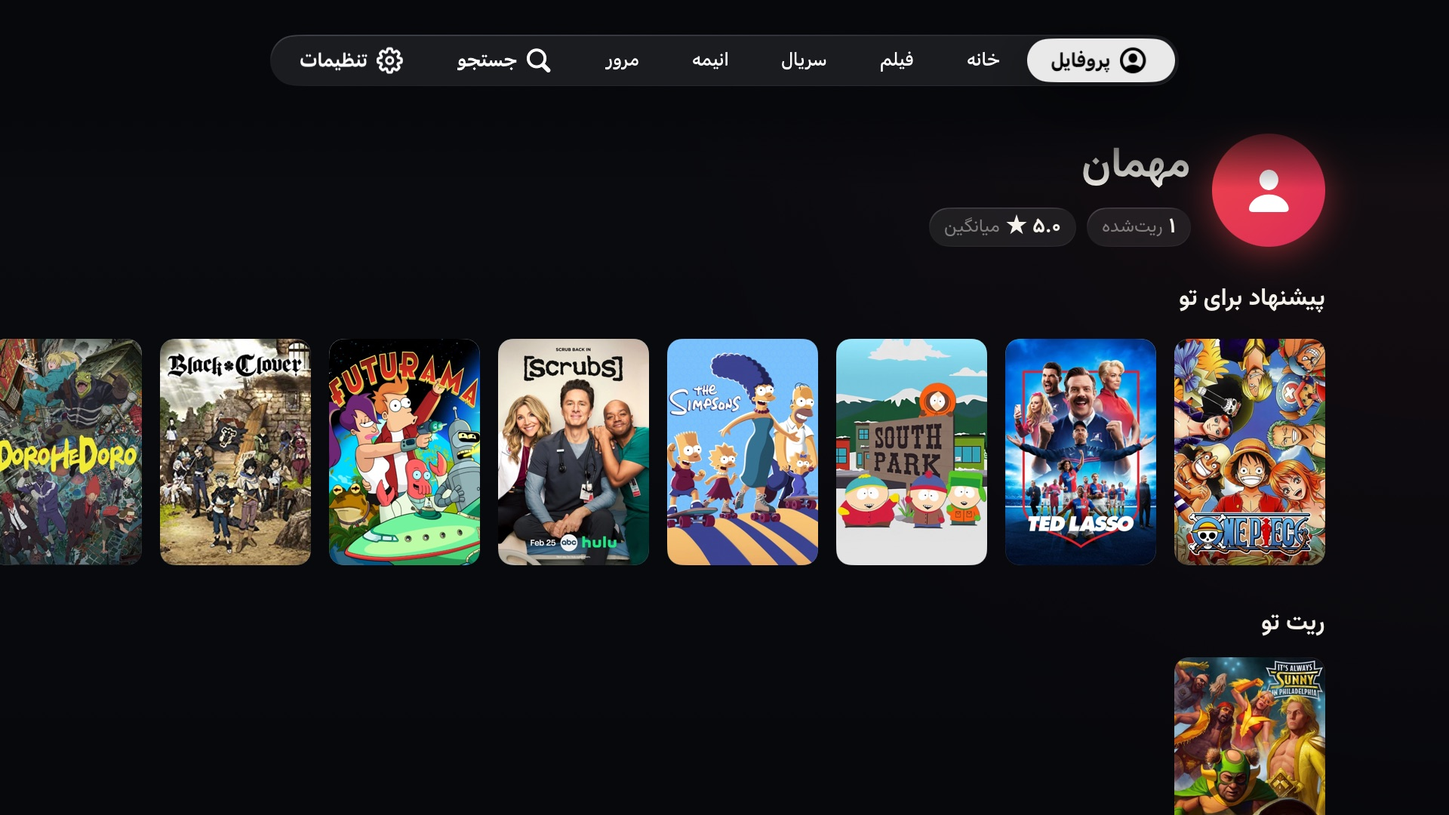
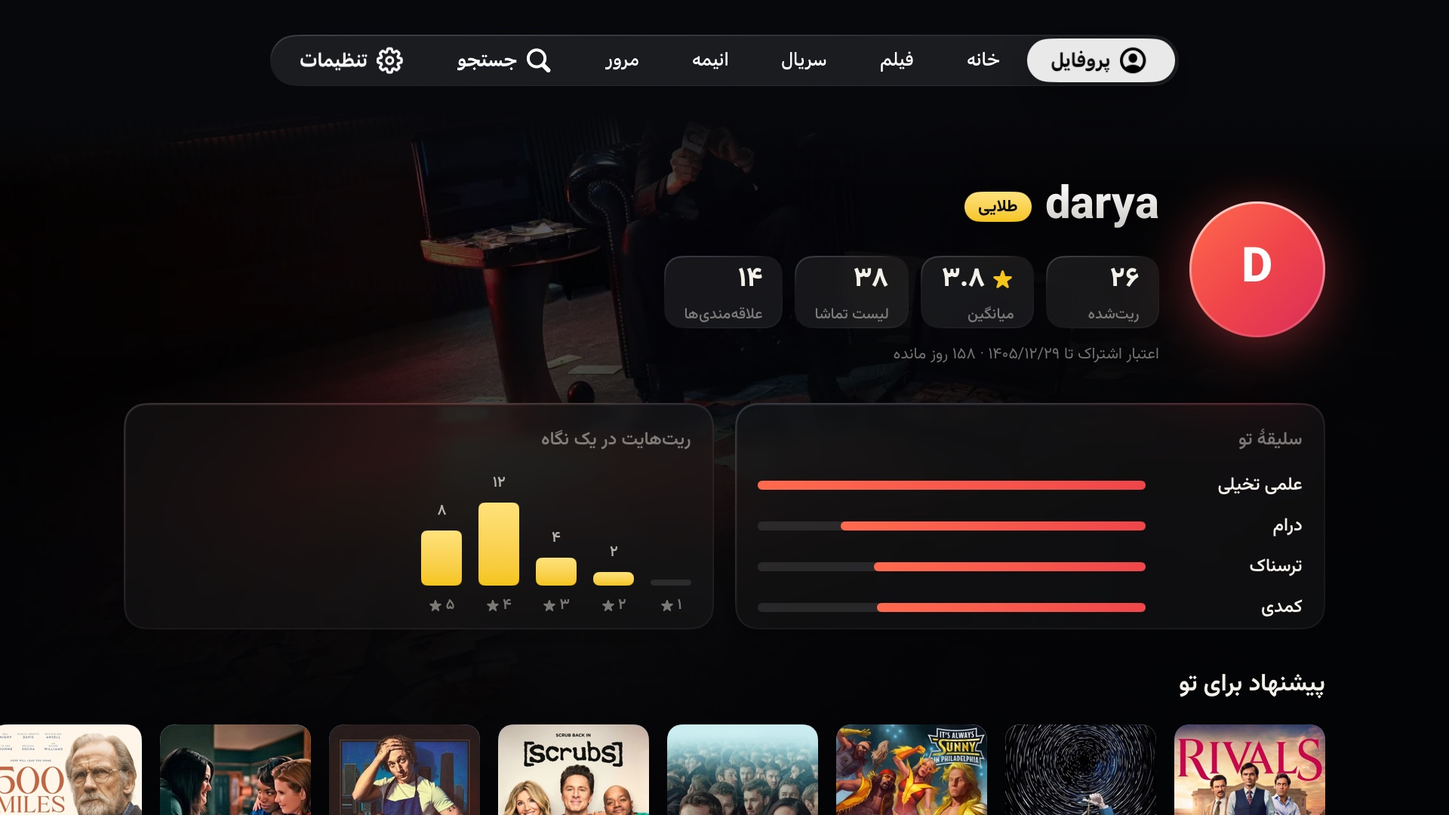
Rewrite the README and retake the screenshots
The text now follows the app as it is: three languages, the new profile,
iCloud ratings, continue watching and the skip prompt. It also tells what
the project set out to do and where 30nama's API stopped it. Screenshots
that show an account use a sample name and sample data.

diff --git a/README.md b/README.md
@@ -1,66 +1,172 @@
+<div align="center">
+
+<img src="docs/banner.jpg" alt="لوگوی ۳۰نما" width="100%">
+
+<h1 dir="rtl">۳۰نما برای Apple TV</h1>
+
+<p dir="rtl">برنامهٔ غیررسمی ۳۰نما برای Apple TV. بومی است، با SwiftUI نوشته شده و هنوز در حال ساخت است.</p>
+
+<p>
+<img src="https://img.shields.io/badge/tvOS-17%2B-000000?logo=apple&logoColor=white" alt="tvOS 17 به بالا">
+<img src="https://img.shields.io/badge/SwiftUI-native-F05138?logo=swift&logoColor=white" alt="SwiftUI">
+<img src="https://img.shields.io/badge/license-MIT-2ea44f" alt="مجوز MIT">
+<img src="https://img.shields.io/badge/status-in%20progress-e5484d" alt="در حال توسعه">
+<img src="https://img.shields.io/badge/unofficial-not%20affiliated-6e7681" alt="غیررسمی">
+</p>
+
+<p dir="rtl">
+<a href="#features">امکانات</a> ·
+<a href="#story">داستان پروژه</a> ·
+<a href="#run">اجرا</a> ·
+<a href="#contribute">همکاری</a>
+</p>
+
+<img src="docs/screenshots/home.jpg" alt="صفحهٔ خانه" width="100%">
+
+</div>
+
 <div dir="rtl">
 
-# ۳۰نما برای Apple TV
+## این پروژه چیست
 
-برنامهای بومی برای tvOS که کاتالوگ [30nama.com](https://30nama.com) را روی Apple TV میآورد. با SwiftUI نوشته شده است.
+تا جایی که میدانیم ۳۰نما برای Apple TV برنامهای ندارد. این پروژه برای پر کردن همان جای خالی است: برنامهای بومی برای tvOS که با حساب خودتان در [30nama.com](https://30nama.com) کار میکند و فیلم و سریال را با کنترل Apple TV جلوی دستتان میگذارد.
 
-این برنامه بر پایهٔ کلاینت تایزن [msharifi99/30nama-tizenos](https://github.com/msharifi99/30nama-tizenos) ساخته شده است. جزئیات در بخش [اعتبار](#اعتبار).
+نقطهٔ شروع ما کلاینت تایزن [msharifi99/30nama-tizenos](https://github.com/msharifi99/30nama-tizenos) بود، نوشتهٔ Rebin Sharifi. از روی آن فهمیدیم API تلویزیون ۳۰نما چطور کار میکند. خود برنامه از صفر و با SwiftUI نوشته شده است.
 
-> **این برنامه رسمی نیست.** ساختهٔ ۳۰نما نیست، وابستگی یا ارتباطی با ۳۰نما ندارد و ۳۰نما آن را تأیید نکرده است. برای پخش باید اشتراک خودتان را در ۳۰نما داشته باشید. بدون ورود فقط میشود فهرستها را دید.
+> [!IMPORTANT]
+> **این برنامه رسمی نیست.** ۳۰نما آن را نساخته و تأیید نکرده است و ما هم ارتباطی با ۳۰نما نداریم. برای پخش باید اشتراک خودتان را داشته باشید. بدون ورود میشود فهرستها را گشت، جستجو کرد و به فیلمها ستاره داد.
 
-> **پروژه در حال توسعه است** و مرتب بهروز میشود، پس ممکن است بعضی بخشها ناقص باشند یا تغییر کنند. اگر میخواهید همکاری کنید، بخش [همکاری](#همکاری) را ببینید.
+> [!NOTE]
+> **کار هنوز تمام نشده است.** برنامه مرتب عوض میشود و تا امروز فقط روی شبیهساز دیده شده، نه روی Apple TV واقعی. اگر دستگاهش را دارید یا حوصلهٔ کد زدن، بخش [همکاری](#contribute) را ببینید.
 
-## تصویرها
+<a id="features"></a>
 
-| خانه | ردیفها |
-|---|---|
-| ![خانه](docs/screenshots/home.jpg) | ![ردیفهای خانه](docs/screenshots/rows.jpg) |
+## چه چیزهایی دارد
 
-| جزئیات | فیلمها |
-|---|---|
-| ![صفحهٔ جزئیات](docs/screenshots/details.jpg) | ![فهرست فیلمها](docs/screenshots/movies.jpg) |
+### خانه و گشتن میان عنوانها
 
-| مرور ژانرها | جستجو |
-|---|---|
-| ![مرور ژانرها](docs/screenshots/browse.jpg) | ![جستجو](docs/screenshots/search.jpg) |
+بالای خانه چرخفلکی از عنوانهای ویژه است و زیرش ردیفها. فوکوس روی هر پوستری که برود، بیلبورد بالای صفحه همان عنوان را نشان میدهد و پسزمینه هم آرام به تصویر آن محو میشود.
 
-| پروفایل | تنظیمات |
-|---|---|
-| ![پروفایل](docs/screenshots/profile.jpg) | ![تنظیمات](docs/screenshots/settings.jpg) |
+<p align="center">
+<img src="docs/screenshots/rows.jpg" alt="ردیفهای خانه" width="49%">
+<img src="docs/screenshots/details.jpg" alt="صفحهٔ یک عنوان" width="49%">
+</p>
 
-| پخشکننده | قسمتها هنگام پخش |
-|---|---|
-| ![پخشکننده با زیرنویس و دکمهٔ رد کردن تیتراژ](docs/screenshots/player.jpg) | ![فهرست قسمتها هنگام پخش](docs/screenshots/episodes.jpg) |
+صفحهٔ هر عنوان فصلها و قسمتها و بازیگرانش را دارد. فیلم، سریال و انیمه هر کدام فهرست خودشان را دارند که میشود مرتبشان کرد. ژانرها را هم میشود مرور کرد، و اگر دنبال عنوان مشخصی هستید جستجو هست.
 
-دو تصویر آخر در حالت دمو و با ویدیوی آزمایشی اپل گرفته شدهاند.
+<p align="center">
+<img src="docs/screenshots/movies.jpg" alt="فهرست فیلمها" width="32%">
+<img src="docs/screenshots/browse.jpg" alt="مرور ژانرها" width="32%">
+<img src="docs/screenshots/search.jpg" alt="جستجو" width="32%">
+</p>
 
-## امکانات
+### پخش
 
-- ورود با کد QR، یا مرور بهعنوان مهمان
-- خانه با چرخفلک عنوانهای ویژه، بیلبوردی که با حرکت فوکوس عوض میشود و پسزمینهای که به تصویر همان عنوان محو میشود
-- صفحهٔ جزئیات با فصلها و قسمتها، بازیگران و ادامهٔ تماشا
-- فهرست فیلم، سریال و انیمه با مرتبسازی، مرور ژانرها و جستجو
-- پخشکنندهٔ خود سیستم با زیرنویس فارسی و انگلیسی به قلم وزیرمتن (اندازه، رنگ و پسزمینهٔ زیرنویس قابل تنظیم است)، دکمههای رد کردن تیتراژ و قسمت بعد، انتخاب کیفیت
-- ستاره دادن به عنوانها و صفحهٔ پروفایل: سلیقهٔ شما از روی ستارههایتان، پیشنهادهایی بر همان اساس، و «لیست تماشا» و «علاقهمندیها»ی حسابتان در ۳۰نما. ستارهها در iCloud خود کاربر هم نگه داشته میشوند تا بین چند Apple TV یکی بمانند (این بخش با iCloud واقعی آزموده شده، ولی هنوز روی Apple TV واقعی نه).
-- رابط انگلیسی، عربی و فارسی (عربی و فارسی راستبهچپ). زبان پیشفرض انگلیسی است و از تنظیمات عوض میشود. عنوان و خلاصهٔ فیلمها را ۳۰نما فقط به فارسی و انگلیسی دارد، پس در رابط عربی اینها انگلیسی نمایش داده میشوند.
+پخشکننده همان پخشکنندهٔ خود tvOS است، پس کنترل همانطور رفتار میکند که در بقیهٔ برنامههای Apple TV به آن عادت دارید. زیرنویس فارسی و انگلیسی با قلم وزیرمتن میآید و اندازه، رنگ و پسزمینهاش از تنظیمات عوض میشود. کیفیت را از منوی خود پخشکننده انتخاب میکنید.
+
+سر تیتراژ، خلاصهٔ قسمت قبل و پایان هر قسمت، دکمهٔ قرمزی روی تصویر میآید: «رد کردن تیتراژ»، «رد کردن خلاصه» یا «قسمت بعد». با OK کار میکند و وقتی نوار پخش باز است کنار میرود.
+
+<p align="center">
+<img src="docs/screenshots/player.jpg" alt="پخشکننده با زیرنویس و دکمهٔ رد کردن تیتراژ" width="49%">
+<img src="docs/screenshots/episodes.jpg" alt="فهرست قسمتها هنگام پخش" width="49%">
+</p>
+
+جایی که فیلم را رها کردهاید در حساب ۳۰نمایتان ثبت میشود. ردیف «ادامه تماشا» در خانه نشان میدهد از هر عنوان چقدر مانده است، و پخش از همانجا ادامه پیدا میکند.
+
+<p align="center">
+<img src="docs/screenshots/continue.jpg" alt="ردیف ادامه تماشا با نوار پیشرفت" width="80%">
+</p>
+
+### ستارهها و پروفایل
+
+به هر عنوان میشود از نیم تا پنج ستاره داد. پروفایل از روی همین ستارهها میگوید کدام ژانرها بیشتر به دلتان نشستهاند و چقدر دستودلباز ستاره میدهید. از میان عنوانهای صفحهٔ خانه هم آنهایی را پیشنهاد میدهد که به سلیقهتان نزدیکترند. برای هیچکدام از اینها ورود لازم نیست؛ مهمان هم ستاره میدهد و پیشنهاد میگیرد.
+
+<p align="center">
+<img src="docs/screenshots/profile.jpg" alt="پروفایل با سلیقه و نمودار ستارهها" width="49%">
+<img src="docs/screenshots/ratings.jpg" alt="عنوانهایی که ستاره گرفتهاند" width="49%">
+</p>
+
+اگر وارد شده باشید، «لیست تماشا» و «علاقهمندیها»ی حسابتان هم همانجا میآید و تاریخ پایان اشتراک با خطی ریز زیر نامتان نوشته میشود.
+
+ستارهها روی خود دستگاه میمانند و یک نسخه هم به iCloud خودتان میرود. اینطوری اگر دو Apple TV دارید یا برنامه را پاک و دوباره نصب کردید، چیزی گم نمیشود. هیچچیز به سرور ما نمیرود، چون سروری در کار نیست.
+
+### سه زبان
+
+رابط به انگلیسی، عربی و فارسی است و در عربی و فارسی راستبهچپ چیده میشود. نصب تازه با انگلیسی بالا میآید و زبان از تنظیمات عوض میشود.
+
+<p align="center">
+<img src="docs/screenshots/english.jpg" alt="خانه به انگلیسی" width="49%">
+<img src="docs/screenshots/arabic.jpg" alt="خانه به عربی" width="49%">
+</p>
+
+۳۰نما عنوان و خلاصهٔ فیلمها را فقط به فارسی و انگلیسی دارد، برای همین در رابط عربی این دو انگلیسی میمانند. ترجمهٔ عربی را هم هنوز هیچ عربزبانی ندیده است.
+
+### ورود و تنظیمات
+
+ورود با کد QR است: کد را با گوشی اسکن میکنید و در سایت ۳۰نما تأیید میکنید، بدون اینکه مجبور شوید رمز را با کنترل تلویزیون تایپ کنید. اگر هم نخواستید وارد شوید، بهعنوان مهمان ادامه میدهید.
+
+<p align="center">
+<img src="docs/screenshots/settings.jpg" alt="تنظیمات" width="60%">
+</p>
+
+<p align="center"><sub>دو تصویر پخشکننده در حالت دمو و با ویدیوی آزمایشی اپل گرفته شدهاند. تصویرهای پروفایل، «ادامه تماشا» و تنظیمات هم با حساب و دادههای نمونه.</sub></p>
+
+<a id="story"></a>
+
+## میخواستیم چه بسازیم و تا کجا رسیدیم
+
+راستش نقشهٔ اول بزرگتر از یک پخشکننده بود. میخواستیم پروفایل جایی باشد برای پیدا کردن آدمهای همسلیقه: بقیهٔ کاربران ۳۰نما را جستجو کنید، دنبالشان کنید و ببینید چه دیدهاند و به کدام فیلم چند ستاره دادهاند. ستارهای هم که در تلویزیون میدهید قرار بود همان امتیازی باشد که در سایت ۳۰نما به اسمتان ثبت است.
+
+API ۳۰نما این اجازه را نداد.
+
+برنامه با API تلویزیون ۳۰نما حرف میزند، همان که کلاینت تایزن هم از آن استفاده میکند. در این API کاتالوگ هست، جستجو، پخش، ادامهٔ تماشا و لیستهای خود کاربر. دستوری برای امتیاز دادن، دیدن پروفایل دیگران یا دنبال کردن کسی در آن نیست. سایت ۳۰نما API جدایی دارد که امتیاز دادن در آن هست، ولی کلید و نشست خودش را میخواهد و نشستی را که برنامه با QR میگیرد نمیپذیرد.
+
+| میخواستیم | چرا نشد | بهجایش چه ساختیم |
+|---|---|---|
+| ستارههای برنامه همان امتیاز سایت باشند | API تلویزیون امتیاز دادن ندارد و API سایت نشست برنامه را قبول نمیکند | ستارهها روی دستگاه و در iCloud خود کاربر میمانند |
+| جستجو و دنبال کردن کاربران دیگر | ۳۰نما اصلاً چنین چیزی ندارد، نه در API تلویزیون و نه در سایت | پروفایل فقط برای خود کاربر است |
+| دیدن فیلمهایی که دیگران دیدهاند یا ستاره دادهاند | پروفایل عمومی هر کاربر در سایت فقط لیستهایش را نشان میدهد، بدون امتیازها و سابقهٔ تماشا. همان هم از برنامه در دسترس نیست | لیست تماشا و علاقهمندیهای خود کاربر از حسابش خوانده میشود |
+| ردیف ترندها از TMDB | کلیدش یا باید داخل برنامه باشد، که بیرون کشیدنش کاری ندارد، یا پشت یک سرور، که نداریم. ساختیم، کار کرد و برش داشتیم | پیشنهادها از روی ستارههای خود کاربر ساخته میشوند |
+
+چیزهایی هم بود که API داشت ولی جایی نگفته بود چطور. نمونهاش ثبت جای پخش: سرور فقط موقعیتی را ثبت میکند که مضرب ۳۰ ثانیه باشد. عدد دیگری بفرستید جواب موفق میدهد و هیچچیز ثبت نمیکند. تا این را پیدا کنیم «ادامه تماشا» خالی میماند.
+
+### الان کجاییم
+
+هر چه بالاتر دیدید کار میکند. ورود، پخش، زیرنویس، انتخاب کیفیت و ثبت جای پخش با یک حساب واقعیِ دارای اشتراک آزموده شدهاند. همگامسازی ستارهها هم با یک حساب iCloud واقعی آزموده شده است، البته از داخل یک برنامهٔ آزمایشی، چون شبیهساز tvOS ورود به iCloud را نمیپذیرد.
+
+چیزی که نداریم خود Apple TV است. تا امروز همهچیز روی شبیهساز دیده شده، و دکمهٔ «قسمت بعد» فقط در حالت دمو.
+
+انتشار عمومی هم هنوز در کار نیست. برنامه غیررسمی است و با نام و لوگوی ۳۰نما کار میکند، پس قدم بعدیاش به خود ۳۰نما بستگی دارد. فعلاً راه نصب، ساختن از روی همین کد است.
+
+اگر از ۳۰نما این را میخوانید: با اضافه شدن امتیاز دادن، پروفایل عمومی و دنبال کردن به API تلویزیون، نیمهٔ دیگر این نقشه هم ساختنی است. کد با مجوز MIT همینجاست و برای رسمی شدنش هر کمکی از دستمان بربیاید میکنیم.
+
+<a id="run"></a>
 
 ## اجرا
 
 Xcode 26 با پلتفرم tvOS لازم است. برنامه روی tvOS 17 به بالا اجرا میشود.
 
+<div dir="ltr">
+
+```
+git clone https://github.com/thesaikodelik/30nama-tvos.git
+```
+
+</div>
+
 ۱. فایل `30nama.xcodeproj` را باز کنید.
 
-۲. یک شبیهساز Apple TV انتخاب کنید و Run را بزنید. برای شبیهساز کار دیگری لازم نیست.
+۲. یک شبیهساز Apple TV انتخاب کنید و Run را بزنید. شبیهساز تنظیم دیگری نمیخواهد.
 
-۳. برای اجرا روی خود Apple TV، فایل `Config/Local.example.xcconfig` را با نام `Config/Local.xcconfig` کپی کنید و شناسهٔ تیم اپل خودتان را در آن بنویسید. این فایل در گیت ثبت نمیشود. شناسهٔ برنامه (`app.30nama.tv`) و کانتینر iCloud در `Config/30nama.entitlements` را هم باید به نام خودتان تغییر دهید.
+۳. برای نصب روی خود Apple TV، فایل `Config/Local.example.xcconfig` را با نام `Config/Local.xcconfig` کپی کنید و شناسهٔ تیم اپل خودتان را در آن بنویسید. این فایل در گیت ثبت نمیشود. شناسهٔ برنامه (`app.30nama.tv`) و کانتینر iCloud در `Config/30nama.entitlements` را هم باید به نام خودتان عوض کنید.
 
-### امتحان پخشکننده بدون اشتراک
+### اشتراک ندارید؟
 
-در بیلد Debug متغیر محیطی `NAMA_DEMO=1` را به Scheme اضافه کنید. آنوقت هر عنوان، ویدیوی آزمایشی اپل را با زیرنویس و قسمتهای نمونه پخش میکند.
+در بیلد Debug متغیر محیطی `NAMA_DEMO=1` را به Scheme اضافه کنید. آنوقت هر عنوان، ویدیوی آزمایشی اپل را با زیرنویس و قسمتهای نمونه پخش میکند و میشود پخشکننده را بدون اشتراک دید.
 
-## تستها
+### تستها
 
-هستهٔ برنامه (مدلها، کلاینت API، تجزیهٔ زیرنویس و BlurHash، ادغام ریتها) به رابط کاربری وابسته نیست و به شکل یک پکیج Swift هم ساخته میشود. تستهایش روی مک اجرا میشوند:
+هستهٔ برنامه (مدلها، کلاینت API، تجزیهٔ زیرنویس و BlurHash، ادغام ستارهها) به رابط کاربری وابسته نیست و جدا، به شکل یک پکیج Swift، هم ساخته میشود. تستهایش روی مک و بدون شبیهساز اجرا میشوند:
 
 <div dir="ltr">
 
@@ -70,40 +176,39 @@ swift test
 
 </div>
 
-## ساختار
+### ساختار
 
-<div dir="ltr">
+| پوشه | چه در آن است |
+|---|---|
+| `30nama/Core` | مدلها، کلاینت API، تجزیهگرها، متنهای سه زبان و ستارهها. چیزی از رابط کاربری در آن نیست و پکیج تست هم همین را میسازد |
+| `30nama/App` | نقطهٔ شروع برنامه، وضعیت سراسری، انبار iCloud و جایگزینهای حالت دمو |
+| `30nama/UI` | تم، سبکهای فوکوس، بارگذاری تصویر و پسزمینه |
+| `30nama/Screens` | ورود، خانه، جزئیات، فهرستها، مرور، جستجو، پروفایل و تنظیمات |
+| `30nama/Player` | پخشکننده، زیرنویس، منوها و دکمهٔ رد کردن |
+| `30nama/Resources` | تصویرها، آیکون و قلم |
+| `Config` | افزودههای Info.plist، entitlements و تنظیمات بیلد |
+| `Tools` | `make-icons.swift` که آیکون و تصویرهای Top Shelf را از لوگو میسازد |
+| `Tests` | تستهای `30nama/Core` |
 
-```
-30nama/Core      models, API client, parsers, strings, ratings (no UI imports; shared with the test package)
-30nama/App       app entry, app-wide state, routes, iCloud store, debug stand-ins
-30nama/UI        theme, focus styles, image pipeline, backdrop
-30nama/Screens   login, home, details, catalogue grid, browse, search, profile, settings
-30nama/Player    AVKit player, subtitles, menus
-Config           Info.plist additions, entitlements, build settings
-Tools            make-icons.swift (regenerates the app icon and Top Shelf images from 30nama-logo.png)
-Tests            tests for 30nama/Core
-```
-
-</div>
+<a id="contribute"></a>
 
 ## همکاری
 
-کمک شما خوشآمد است، چه گزارش یک ایراد باشد چه کد.
+کد را برای این باز گذاشتهایم که کسی بتواند جلوترش ببرد. چند جا هست که کمک همین حالا به کار میآید:
 
-- ایراد یا پیشنهادی دارید؟ یک Issue باز کنید.
-- میخواهید کد بنویسید؟ فهرست کارهای باز در [TASKS.md](TASKS.md) است. اگر کار بزرگی در نظر دارید، قبلش در یک Issue بگویید تا دوبارهکاری نشود.
-- قبل از فرستادن Pull Request دستور `swift test` را اجرا کنید. قاعدههای کد در [AGENTS.md](AGENTS.md) آمده است.
+- Apple TV دارید؟ برنامه را رویش بسازید و بگویید چه دیدید. ما هنوز آن را روی دستگاه واقعی ندیدهایم.
+- عربی میدانید؟ متنهای عربی در `30nama/Core/L10n.swift` بازبینی میخواهند.
+- راهی برای رسیدن به امتیازها و پروفایلهای ۳۰نما میشناسید که ما ندیدهایم؟ در یک Issue بنویسید.
 
-## مجوز
+بقیهٔ کارهای باز در [TASKS.md](TASKS.md) است. اگر کار بزرگی در نظر دارید، قبلش یک Issue باز کنید تا دوبارهکاری نشود. پیش از فرستادن Pull Request هم `swift test` را اجرا کنید. قاعدههای کد در [AGENTS.md](AGENTS.md) آمده است.
+
+## مجوز و اعتبار
 
 کد این پروژه با مجوز [MIT](LICENSE) منتشر شده است. نام و لوگوی ۳۰نما، قلم وزیرمتن و بخشهایی که از پروژههای دیگر آمدهاند مجوز خودشان را دارند که در [THIRD-PARTY-NOTICES.md](THIRD-PARTY-NOTICES.md) آمده است.
 
-## اعتبار
-
-- این برنامه از روی کلاینت تایزن [msharifi99/30nama-tizenos](https://github.com/msharifi99/30nama-tizenos) نوشتهٔ Rebin Sharifi ساخته شده است: همان API، با برنامهای تازه. متن مجوز آن در [THIRD-PARTY-NOTICES.md](THIRD-PARTY-NOTICES.md) آمده است.
+- این برنامه از روی کلاینت تایزن [msharifi99/30nama-tizenos](https://github.com/msharifi99/30nama-tizenos) نوشتهٔ Rebin Sharifi ساخته شده است: همان API، با برنامهای تازه.
 - قلم [وزیرمتن](https://github.com/rastikerdar/vazirmatn) با مجوز SIL Open Font License منتشر شده است.
-- نام و لوگوی ۳۰نما متعلق به ۳۰نما است. لوگو روی آیکون برنامه فقط برای این است که معلوم باشد برنامه به کدام سرویس وصل میشود، و نشانهٔ تأیید یا همکاری ۳۰نما نیست.
+- نام و لوگوی ۳۰نما متعلق به ۳۰نما است. لوگو روی آیکون و بالای این صفحه فقط برای این است که معلوم باشد برنامه به کدام سرویس وصل میشود، و نشانهٔ تأیید یا همکاری ۳۰نما نیست.
 - پوسترها و تصویرهایی که در برنامه و در این صفحه میبینید متعلق به صاحبان همان آثار است.
 
 </div>

diff --git a/TASKS.md b/TASKS.md
@@ -6,9 +6,8 @@
 
 ## باز
 
-- [ ] **همگامسازی iCloud روی Apple TV واقعی.** کد همگامسازی با یک حساب iCloud واقعی آزموده شده است، ولی از داخل یک برنامهٔ آزمایشی روی شبیهساز آیفون، چون شبیهساز tvOS ورود به iCloud را نمیپذیرد. خود برنامه روی Apple TV واقعی هنوز دیده نشده است. پیش از انتشار هم باید نوع رکورد `Ratings` در CloudKit Console از محیط Development به Production منتقل شود.
+- [ ] **همگامسازی iCloud روی Apple TV واقعی.** کد همگامسازی با یک حساب iCloud واقعی آزموده شده است، ولی از داخل یک برنامهٔ آزمایشی روی شبیهساز آیفون، چون شبیهساز tvOS ورود به iCloud را نمیپذیرد. خود برنامه روی Apple TV واقعی هنوز دیده نشده است.
 - [ ] **بازبینی ترجمهٔ عربی.** رشتههای عربی را یک عربزبان ندیده است.
-- [ ] **تصویر پروفایل در README.** تصویر فعلی مال طراحی قبلی است. تصویر تازه باید در حالت مهمان یا با حساب آزمایشی گرفته شود، چون سربرگ نام و عکس کاربر را نشان میدهد.
 - [ ] **آزمون روی Apple TV واقعی.** اولین بیلد (1.0.0، شمارهٔ ۱) در TestFlight داخلی است، ولی هنوز کسی آن را روی دستگاه واقعی نصب نکرده است. همگامسازی iCloud و پخش باید روی دستگاه دیده شوند. فهرست بازبینی بیلدهای بعدی در [docs/pre-release-checklist.md](docs/pre-release-checklist.md) است.
 
 ## انجامشده
@@ -32,5 +31,7 @@
 - [x] زیرنویس هنگام باز بودن فهرست قسمتها بالاتر از آن مینشیند (قبلاً روی کارتها میافتاد)
 - [x] تصویر پخشکننده در README
 - [x] مجوز MIT برای کد
+- [x] بازنویسی README با تصویرهای تازه (پروفایل، ادامه تماشا، تنظیمات، رابط انگلیسی و عربی). تصویرهایی که حساب را نشان میدهند با نام و دادههای نمونه گرفته شدهاند، نه حساب واقعی
+- [x] کارت «سلیقهٔ تو» در پروفایل برای چهار ژانر جا دارد (ردیف چهارم از کارت بیرون میزد)
 
 </div>
